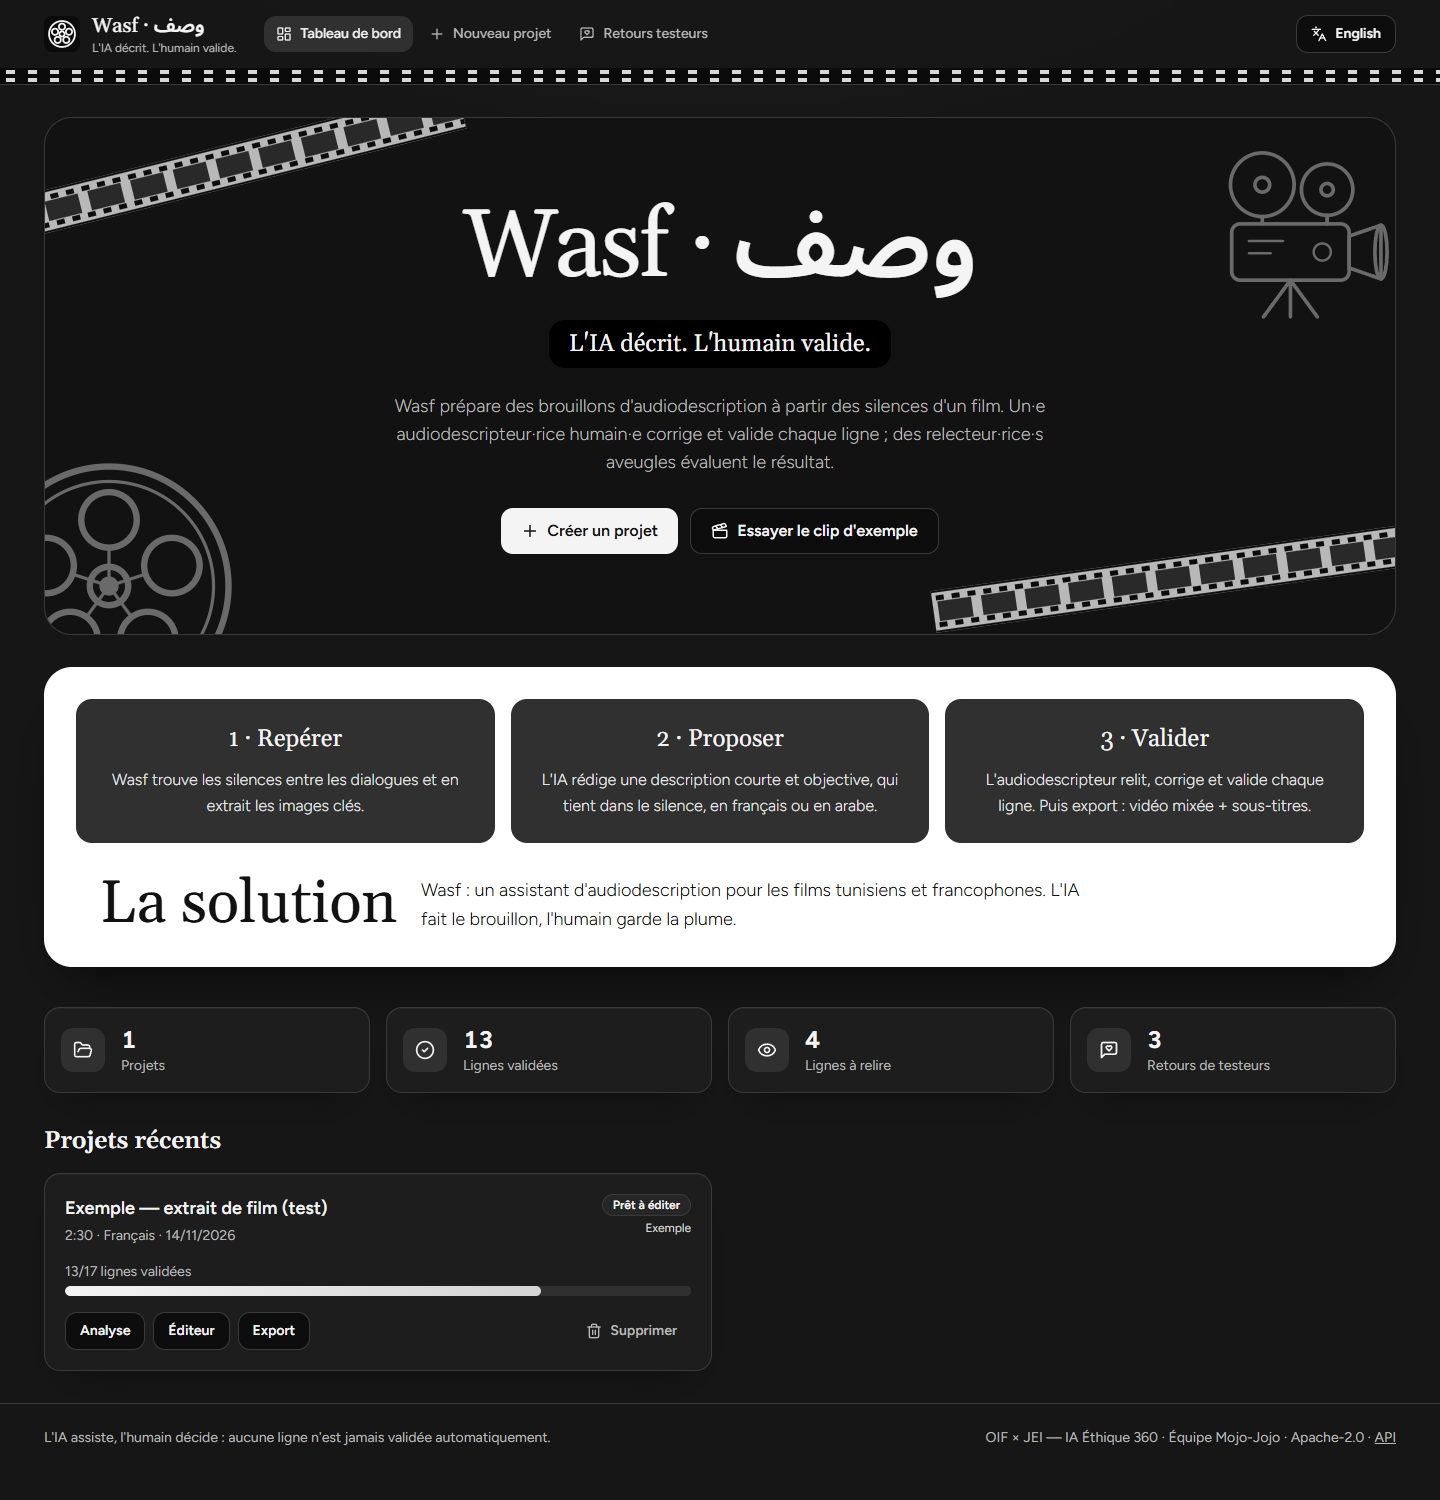
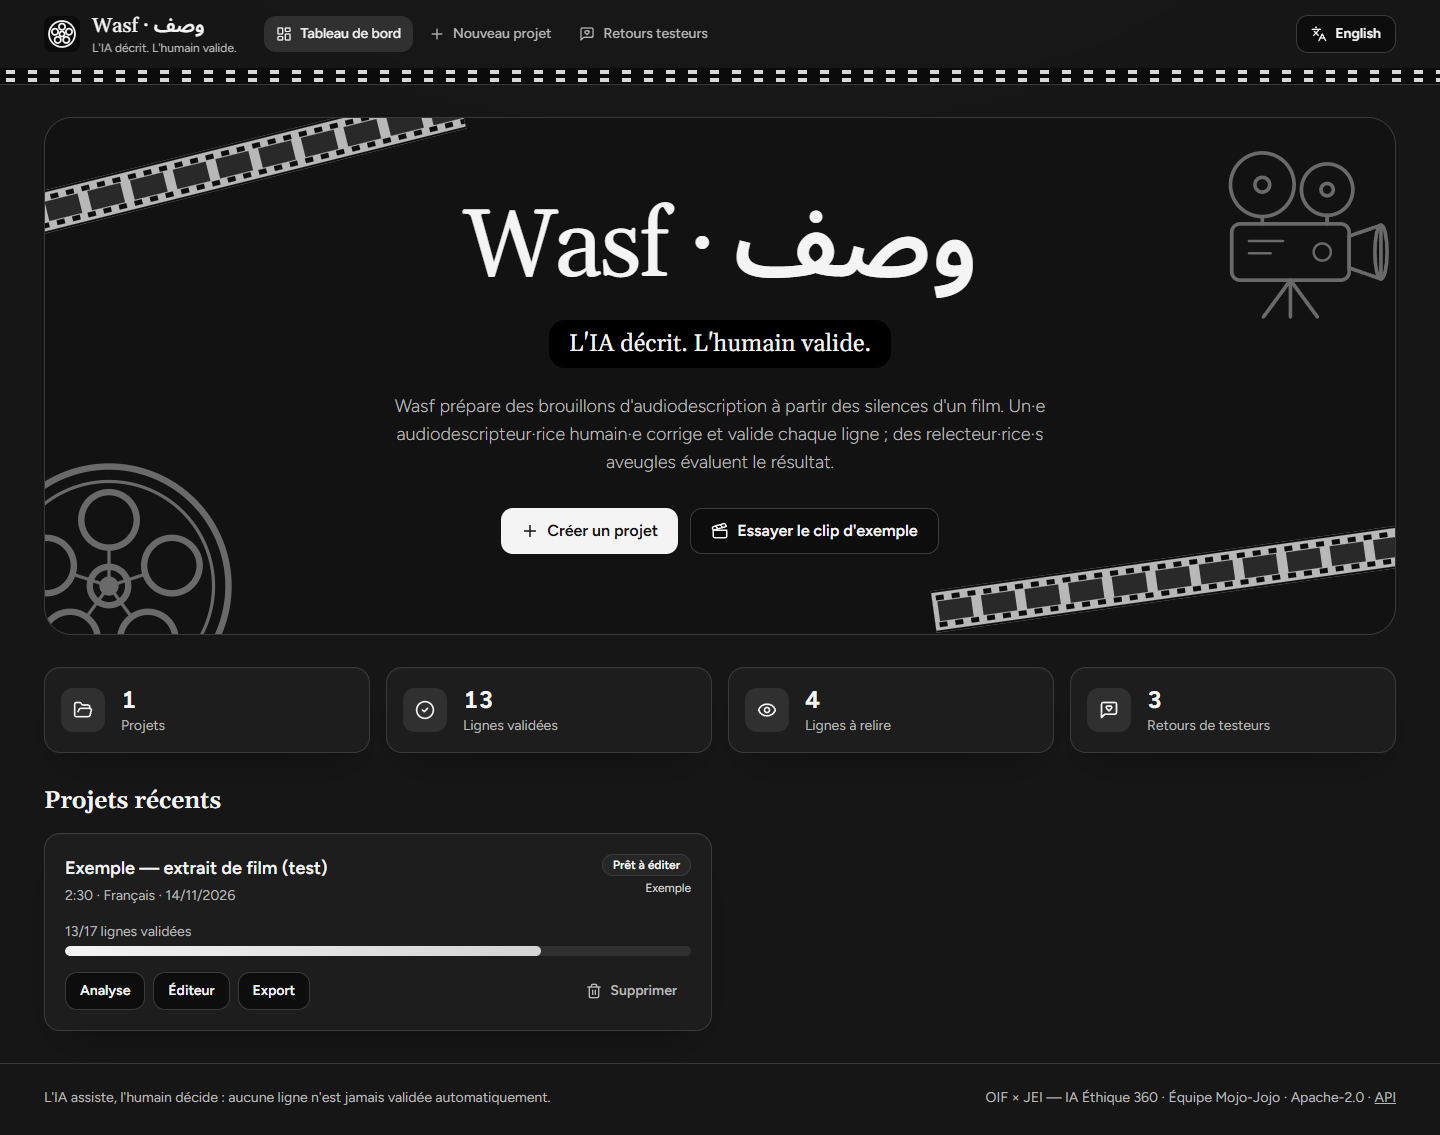
refactor: remove the "La solution" panel from the dashboard
Its content is already in the presentation; the dashboard keeps the cover, the
numbers and the projects. README dashboard screenshot retaken.

diff --git a/frontend/src/lib/i18n.tsx b/frontend/src/lib/i18n.tsx
@@ -20,14 +20,6 @@ const dict = {
     welcomeSub:
       "Wasf prépare des brouillons d'audiodescription à partir des silences d'un film. Un·e audiodescripteur·rice humain·e corrige et valide chaque ligne ; des relecteur·rice·s aveugles évaluent le résultat.",
     createProject: "Créer un projet",
-    howTitle: "La solution",
-    howText: "Wasf : un assistant d'audiodescription pour les films tunisiens et francophones. L'IA fait le brouillon, l'humain garde la plume.",
-    step1Title: "Repérer",
-    step1Text: "Wasf trouve les silences entre les dialogues et en extrait les images clés.",
-    step2Title: "Proposer",
-    step2Text: "L'IA rédige une description courte et objective, qui tient dans le silence, en français ou en arabe.",
-    step3Title: "Valider",
-    step3Text: "L'audiodescripteur relit, corrige et valide chaque ligne. Puis export : vidéo mixée + sous-titres.",
     trySample: "Essayer le clip d'exemple",
     recentProjects: "Projets récents",
     noProjects: "Aucun projet pour l'instant.",
@@ -253,14 +245,6 @@ const dict = {
     welcomeSub:
       "Wasf drafts audio description from a film's silences. A human describer edits and validates every line; blind proofreaders evaluate the result.",
     createProject: "Create a project",
-    howTitle: "The solution",
-    howText: "Wasf: an audio description assistant for Tunisian and Francophone films. AI writes the draft, the human keeps the pen.",
-    step1Title: "Spot",
-    step1Text: "Wasf finds the silences between dialogue and extracts their keyframes.",
-    step2Title: "Propose",
-    step2Text: "AI writes a short, objective description that fits the silence, in French or Arabic.",
-    step3Title: "Validate",
-    step3Text: "The describer reviews, edits and validates every line. Then export: mixed video + subtitles.",
     trySample: "Try the sample clip",
     recentProjects: "Recent projects",
     noProjects: "No projects yet.",

diff --git a/frontend/src/pages/Dashboard.tsx b/frontend/src/pages/Dashboard.tsx
@@ -91,26 +91,6 @@ export default function Dashboard() {
         </div>
       </section>
 
-      {/* How it works, like the "La solution" slide: a white panel holding three dark cards */}
-      <section aria-labelledby="how-h" className="panel-paper mb-10 p-6 md:p-8">
-        <div className="grid grid-cols-1 gap-4 md:grid-cols-3">
-          {(["step1", "step2", "step3"] as const).map((k, i) => (
-            <div key={k} className="rounded-2xl bg-surface-3 p-6 text-center text-ink">
-              <h3 className="font-display text-2xl">
-                {i + 1} · {t(`${k}Title` as Key)}
-              </h3>
-              <p className="mt-3 font-light leading-relaxed text-[#e6e6e6]">{t(`${k}Text` as Key)}</p>
-            </div>
-          ))}
-        </div>
-        <div className="mt-8 grid grid-cols-1 items-center gap-6 md:grid-cols-[auto_1fr] md:px-6">
-          <h2 id="how-h" className="font-display text-5xl leading-none md:text-6xl">
-            {t("howTitle")}
-          </h2>
-          <p className="max-w-2xl text-lg font-light leading-relaxed">{t("howText")}</p>
-        </div>
-      </section>
-
       <section aria-labelledby="stats-h" className="mb-8">
         <h2 id="stats-h" className="sr-only">
           Statistiques
